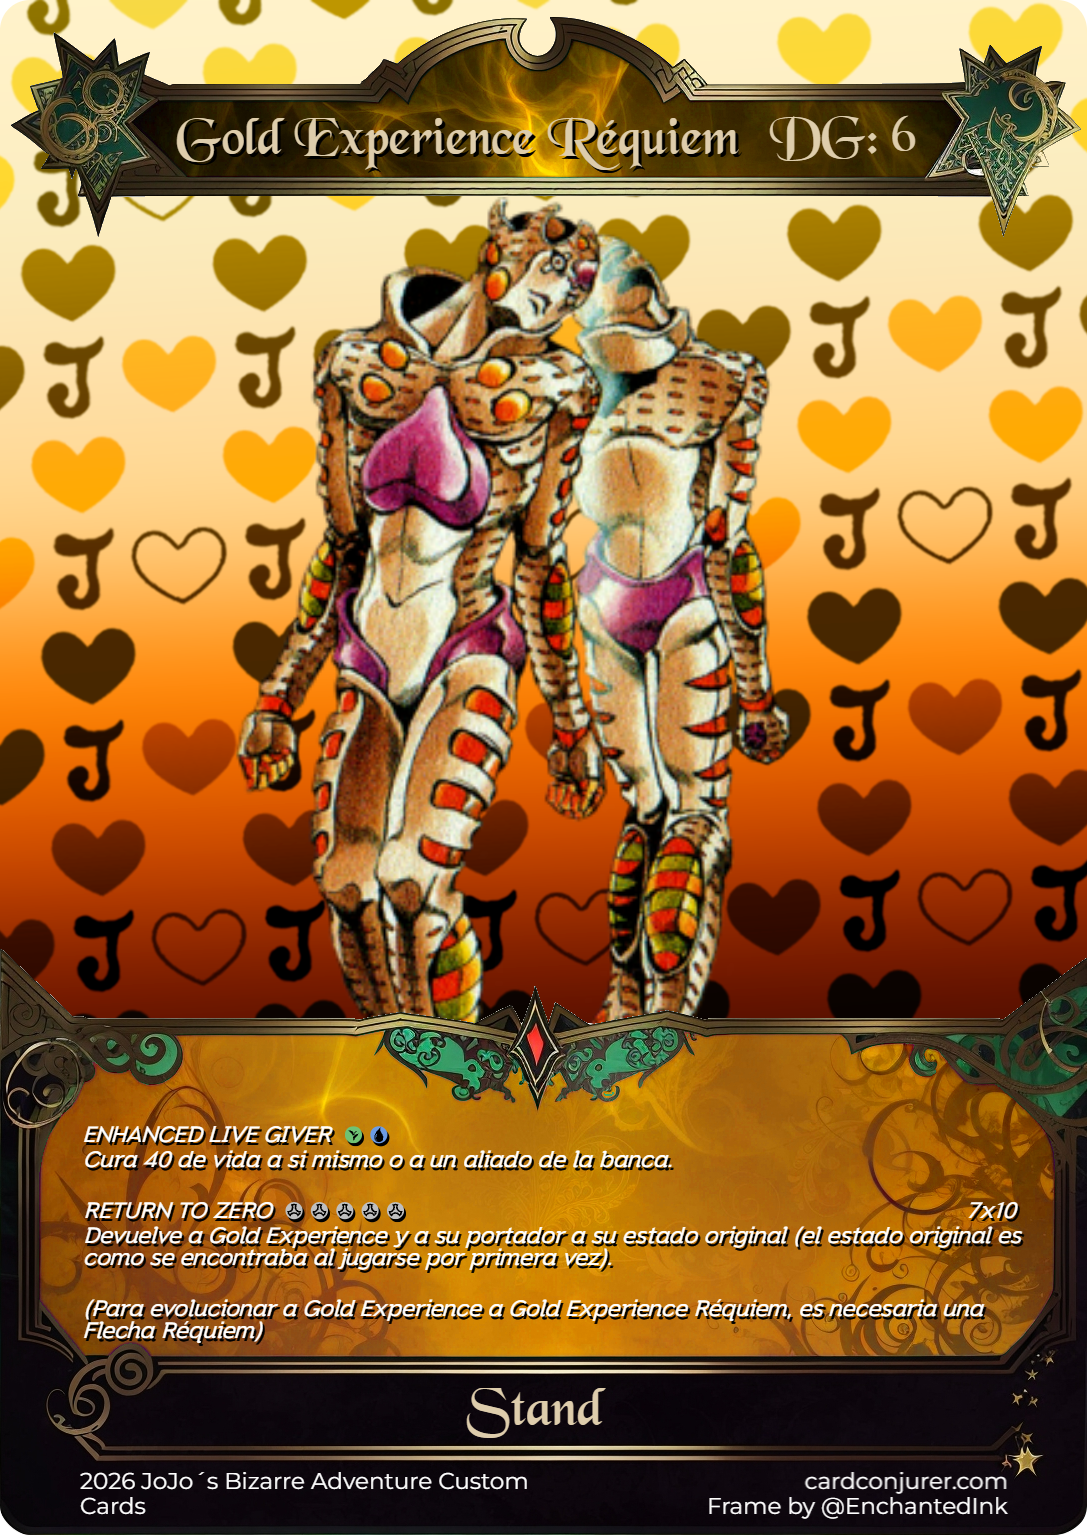
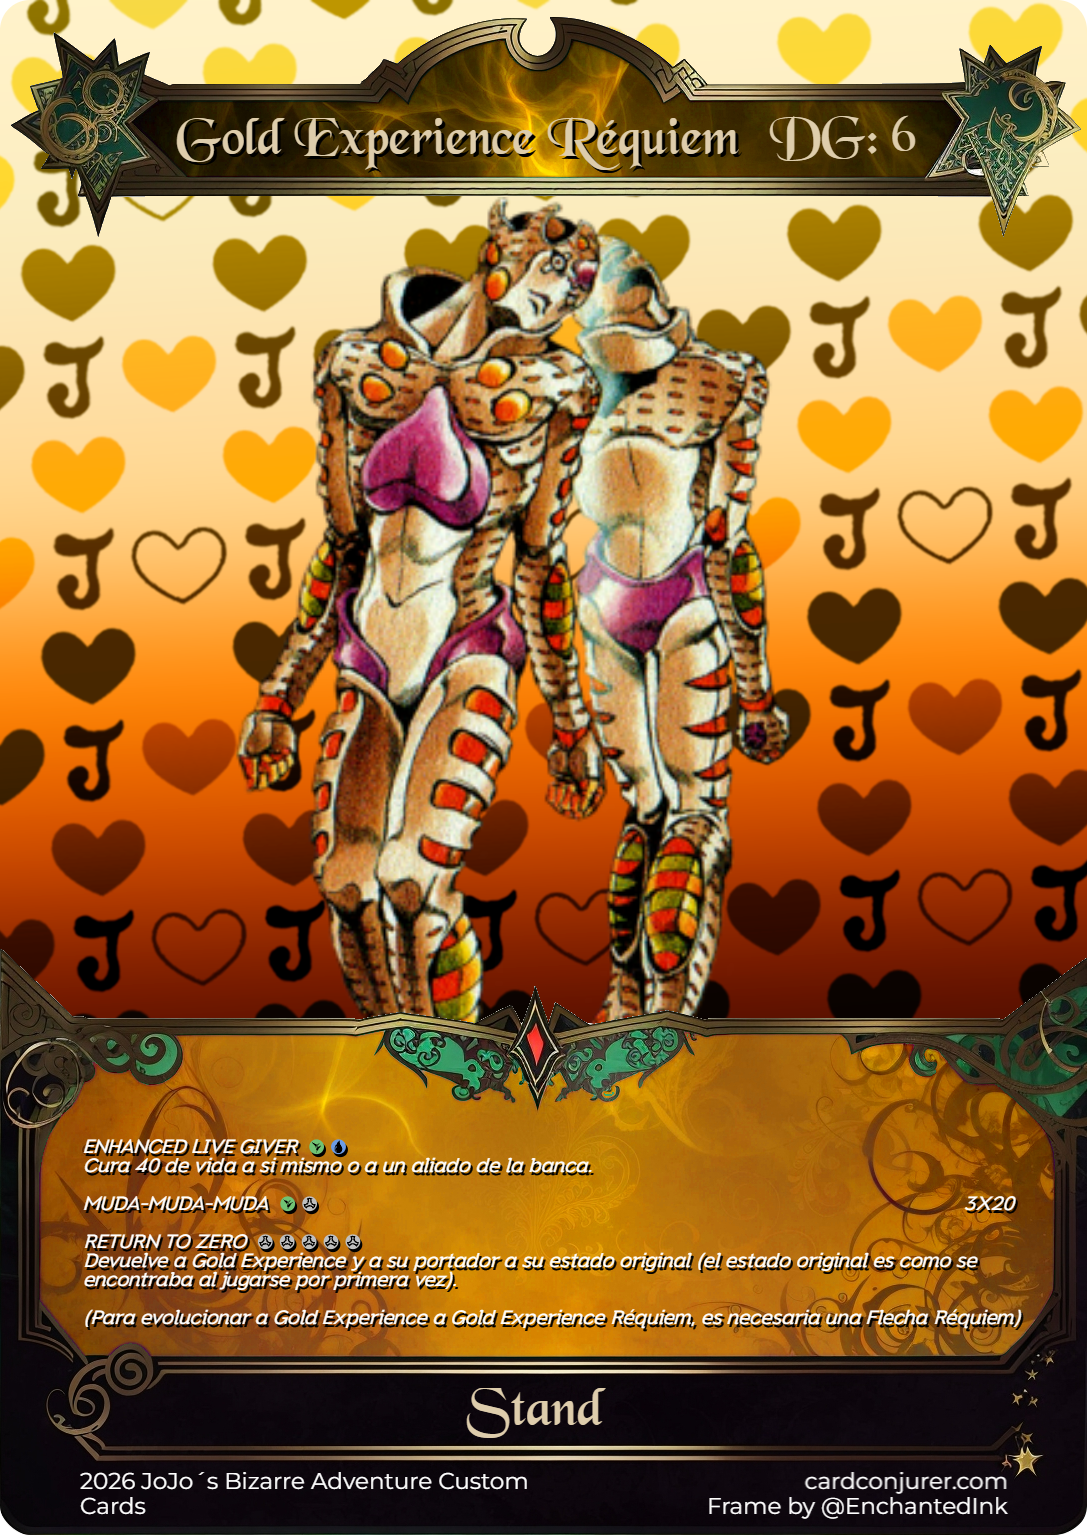
feat(cards): update Gold Experience Requiem with Muda-Muda-Muda (3x20) and 0-dmg Return to Zero

Changed region(s): [[0.0607, 0.7349, 0.9411, 0.8879]]

diff --git a/src/tests/engine/edgeCasesAndCatalog.test.ts b/src/tests/engine/edgeCasesAndCatalog.test.ts
@@ -280,11 +280,11 @@ describe('Asset Integrity, Additional Official Card Abilities & Multi-Match AI S
     );
     expect(mudaMiss.players.P2.active!.currentHp).toBe(160);
 
-    // 2. Gold Experience Requiem evolution + Return to Zero restores full HP & cleanses statuses/debuffs while dealing 70 dmg
+    // 2. Gold Experience Requiem evolution + Return to Zero (0 dmg utility reset) + Muda-Muda-Muda (60 dmg)
     let gerState = buildControlledBattleState({
       p1ActiveId: 'char-giorno-giovanna', // 130 HP, DG 6
       p1ActiveStandId: 'stand-gold-experience',
-      p1ActiveEnergies: ['COLORLESS', 'COLORLESS', 'COLORLESS', 'COLORLESS', 'COLORLESS'],
+      p1ActiveEnergies: ['NATURE', 'COLORLESS', 'COLORLESS', 'COLORLESS', 'COLORLESS'],
       p1Hand: ['evo-gold-experience-requiem', 'item-flecha-requiem'],
       p2ActiveId: 'char-dio', // 160 HP
       phase: 'PREPARATION',
@@ -305,8 +305,18 @@ describe('Asset Integrity, Additional Official Card Abilities & Multi-Match AI S
     expect(gerState.players.P1.active!.statuses.burn).toBeNull();
     expect(gerState.players.P1.active!.statuses.bleedStacks).toHaveLength(0);
     expect(gerState.players.P1.active!.attachedStand!.damageDebuff).toBe(0);
-    // Damage was 70 - 20 (debuff applied before Return to Zero clears it) = 50 -> 160 - 50 = 110
-    expect(gerState.players.P2.active!.currentHp).toBe(110);
+    // Return to Zero is pure reset (0 damage)
+    expect(gerState.players.P2.active!.currentHp).toBe(160);
+
+    // Next P1 turn: Muda-Muda-Muda deals 60 damage cleanly (since debuff was cleared by Return to Zero!)
+    gerState = mustDispatch(gerState, { type: 'END_TURN', playerId: 'P2' });
+    gerState = mustDispatch(gerState, { type: 'ENTER_COMBAT_PHASE', playerId: 'P1' });
+    gerState = mustDispatch(gerState, {
+      type: 'USE_ATTACK',
+      playerId: 'P1',
+      attackId: 'atk-ger-muda-muda-muda',
+    });
+    expect(gerState.players.P2.active!.currentHp).toBe(100); // 160 - 60
 
     // 3. Sticky Fingers — Zipper Man with 3/3 heads bounces enemy user + Stand to hand and promotes bench
     let sfState = buildControlledBattleState({

diff --git a/src/data/cards/evolutions.ts b/src/data/cards/evolutions.ts
@@ -236,11 +236,18 @@ export const EVOLUTION_CARDS: EvolutionCard[] = [
         specialEffects: [{ kind: 'HEAL_SELF_OR_BENCH', amount: 40 }],
       },
       {
+        id: 'atk-ger-muda-muda-muda',
+        name: 'Muda-Muda-Muda',
+        energyCost: ['NATURE', 'COLORLESS'],
+        baseDamage: 60,
+        damageLabel: '3x20',
+      },
+      {
         id: 'atk-return-to-zero',
         name: 'Return to Zero',
         energyCost: ['COLORLESS', 'COLORLESS', 'COLORLESS', 'COLORLESS', 'COLORLESS'],
-        baseDamage: 70,
-        damageLabel: '7x10',
+        baseDamage: 0,
+        damageLabel: 'ZERO',
         effectText:
           'Devuelve a Gold Experience y a su portador a su estado original (el estado original es como se encontraba al jugarse por primera vez).',
         specialEffects: [{ kind: 'RETURN_TO_ZERO' }],
